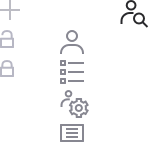
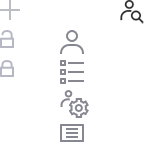
토스트팝업 닫기 스크립트 추가

Changed region(s): [[0.8, 0.0, 0.9867, 0.1867]]

diff --git a/view/test.html b/view/test.html
@@ -60,25 +60,32 @@
     <script>
         let selDefault = document.querySelectorAll('.selDefault');   
         function selectBox(){ 
-            selDefault.forEach(function(lb){          
-                    
+            selDefault.forEach(function(lb){             
                 lb.addEventListener('click', e => {
                     let optionList = lb.nextElementSibling;
                     let optionItems = optionList.querySelectorAll('.optionItem');
                     clickLabel(lb, optionItems);
+
+                    /* 220902 수정(외부클릭시 닫힘) -ys */
+                    document.addEventListener('click', function(){
+                        let input = optionList.querySelector('input');
+                        let label = optionList.querySelector('label');
+                    
+                        if(event.target !== lb && event.target !== label && event.target !== input){
+                            lb.parentNode.classList.remove('is-active');
+                        }
+                    });
+                    /* //220902 수정(외부클릭시 닫힘) -ys */
                 });
             });
             const clickLabel = (lb, optionItems) => {
-                if(lb.parentNode.classList.contains('is-active')) {                    
-
+                if(lb.parentNode.classList.contains('is-active')) {     
                     lb.parentNode.classList.remove('is-active');
                     optionItems.forEach((opt) => {
                         opt.removeEventListener('click', () => {
                             handleSelect(lb, opt)
                         })
                     })
-
-
                 } else {
                     lb.parentNode.classList.add('is-active');
                     optionItems.forEach((opt) => {
@@ -92,6 +99,8 @@
             /* 220902 수정 -ys */
             const handleSelect = (selDefault, item) => {
                 let hasChk = item.getElementsByTagName('input');
+                console.log(hasChk);
+                console.log(hasChk.length);
                 if(hasChk.length >= 1){
                     selDefault.innerHTML = item.textContent;
                 }else{
@@ -100,24 +109,6 @@
                 }            
             }
             /* //220902 수정 -ys */
-
-            // document.addEventListener('click',function(e){
-            //     if(gnbSlide == true){ //슬라이드 메뉴가 열려 있을때
-            //         if(e.target.id != 'loopBtn'){ //e.target이 슬라이딩 이미지 재생 버튼이 아니면
-            //             let tgEl = e.target;
-            //             let header = tgEl.closest('#header');//조상중 #header를 찾음-버튼이 header안에 있을 경우//
-                    
-            //             if(!header){ //hdader이 조상이 아니면 닫기//
-            //                 nav.classList.remove('slide');
-            //                 return gnbSlide = false;
-            //             }
-            //         }
-            //     }
-            // });
-
-
-
-
         }
         selDefault.onclick = selectBox();
     </script>

diff --git a/view/projReqList.html b/view/projReqList.html
@@ -164,7 +164,7 @@
                                     <td class="hasToast">
                                         <input type="checkbox" id="reqChk_10" class="bMark" name="bMark">
                                         <label for="reqChk_10"></label>
-                                        <div class="alertToast">
+                                        <div class="alertToast is-active" id="toast01">
                                             중요 프로젝트로 설정되었습니다.
                                             <i class="ico smClose w"></i>
                                         </div>
@@ -186,10 +186,16 @@
                                 </tr>
                                 <tr>
                                     <td>9</td>
-                                    <td>
+                                    <!--220902 추가 -ys-->
+                                    <td class="hasToast">
                                         <input type="checkbox" id="reqChk_9" class="bMark" name="bMark">
                                         <label for="reqChk_9"></label>
+                                        <div class="alertToast is-active" id="toast02">
+                                            중요 프로젝트로 설정되었습니다.
+                                            <i class="ico smClose w"></i>
+                                        </div>
                                     </td>
+                                    <!--//220902 추가 -ys-->
                                     <td>22.05.01</td>
                                     <td>22.05.01</td>
                                     <td>에코</td>
@@ -829,6 +835,7 @@
     <script src="../assets/js/script.js"></script>
     <script>
         selDefault.onclick = selectBox();
+        alertClose.onclick = toastClose();
     </script>
 </body>
 </html>

diff --git a/assets/js/script.js b/assets/js/script.js
@@ -277,6 +277,43 @@ function makeScroll(){
 }
 //makeScroll();
 
+
+//alert 토스트팝업
+//호출 : alertClose.onclick = toastClose();
+//let hasToast = document.querySelectorAll('.hasToast');
+let alertToast = document.querySelectorAll('.alertToast');
+let alertClose = document.querySelectorAll('.smClose');
+function toastClose(){
+    for(let i=0; i<alertClose.length; i++){
+        alertClose[i].addEventListener('click', function(){
+            alertClose[i].parentNode.classList.remove('is-active');
+        });
+    }
+}
+//toastClose();
+
+//허책임님 alert 팝업
+//let removeToast;
+// function toast(id) {    
+//     var toastId = "toast_" + id;
+//     var message = "";
+    
+//     if($("#genChk_" + id).prop("checked")) message= "관심회원으로 등록되었습니다." 
+//     else message= "관심회원에서 해제되었습니다."
+    
+//     const toast = document.getElementById(toastId);
+    
+//     toast.classList.contains("is-active") ?
+//         (clearTimeout(removeToast), removeToast = setTimeout(function () {
+//             document.getElementById(toastId).classList.remove("is-active")
+//         }, 3000)) :
+//         removeToast = setTimeout(function () {
+//             document.getElementById(toastId).classList.remove("is-active")
+//         }, 3000)
+//     toast.classList.add("is-active"),
+//         toast.innerHTML = "<i class='ico smClose w'></i>" + message;
+// }
+
 /*-----------//호출-----------*/
 
 
@@ -362,7 +399,7 @@ function uploadFile(){
         }
     } // addEventHandler();
 }
-uploadFile();
+//uploadFile();
 
 
 /*-----------별도 호출 없음---------*/

diff --git a/view/modal.html b/view/modal.html
@@ -101,8 +101,8 @@
                                                 </div>
                                             </div>
                                         
-                                            <label for="cycleDocument" class="">또는 직접선택</label>
-                                            <input type="file" name="cycleDocument" id="cycleDocument" class="" tabindex="" />
+                                            <label for="cycleDocument2" class="">또는 직접선택</label>
+                                            <input type="file" name="cycleDocument" id="cycleDocument2" class="" tabindex="" />
                                         </div>
 
                                         <p class="error is-active">jpg, jpeg 이미지만 첨부할 수 있습니다.</p> 

diff --git a/assets/css/style.css b/assets/css/style.css
@@ -2070,6 +2070,7 @@ input[type=radio]:checked + label::before {
   background: #e5effa;
 }
 .select .optionList .optionItem label {
+  display: block;
   font-weight: 400;
   vertical-align: middle;
 }
@@ -2225,8 +2226,8 @@ input[type=radio]:checked + label::before {
   background-position: -142px 0;
 }
 .ico.smClose {
-  width: 0.875rem;
-  height: 0.875rem;
+  width: 0.75rem;
+  height: 0.75rem;
   vertical-align: -1px;
   background-position: -160px 0;
 }
@@ -2352,8 +2353,8 @@ input[type=radio]:checked + label::before {
   background-position: -30px 0;
 }
 .gnb .ico.admin {
-  width: 1.75rem;
-  height: 1.75rem;
+  width: 1.5rem;
+  height: 1.5rem;
   background-position: -30px -90px;
 }
 .gnb .ico.system {

diff --git a/assets/scss/_partial/_icon.scss b/assets/scss/_partial/_icon.scss
@@ -64,8 +64,8 @@
         background-position: -142px 0;
     }
     &.smClose{
-        width: rem(14);
-        height: rem(14);    
+        width: rem(12);
+        height: rem(12);    
         vertical-align: -1px;
         background-position: -160px 0;
         &.w{
@@ -194,8 +194,8 @@
             background-position: -30px 0;
         }
         &.admin{
-            width: rem(28);
-            height: rem(28);
+            width: rem(24);
+            height: rem(24);
             background-position: -30px -90px;
         }
         &.system{

diff --git a/view/login.html b/view/login.html
@@ -12,7 +12,7 @@
     <section class="wrapper center">    
         <section class="login">
             <div class="tit">
-                <h1>Loggg in</h1>
+                <h1>Log in</h1>
                 <span>JOBJOB Management System</span>
             </div>            
 

diff --git a/assets/scss/_partial/_select.scss b/assets/scss/_partial/_select.scss
@@ -86,6 +86,7 @@
         background: $selHover;
       }
       label{
+        display: block;
         font-weight: 400;
         vertical-align: middle;
       }
